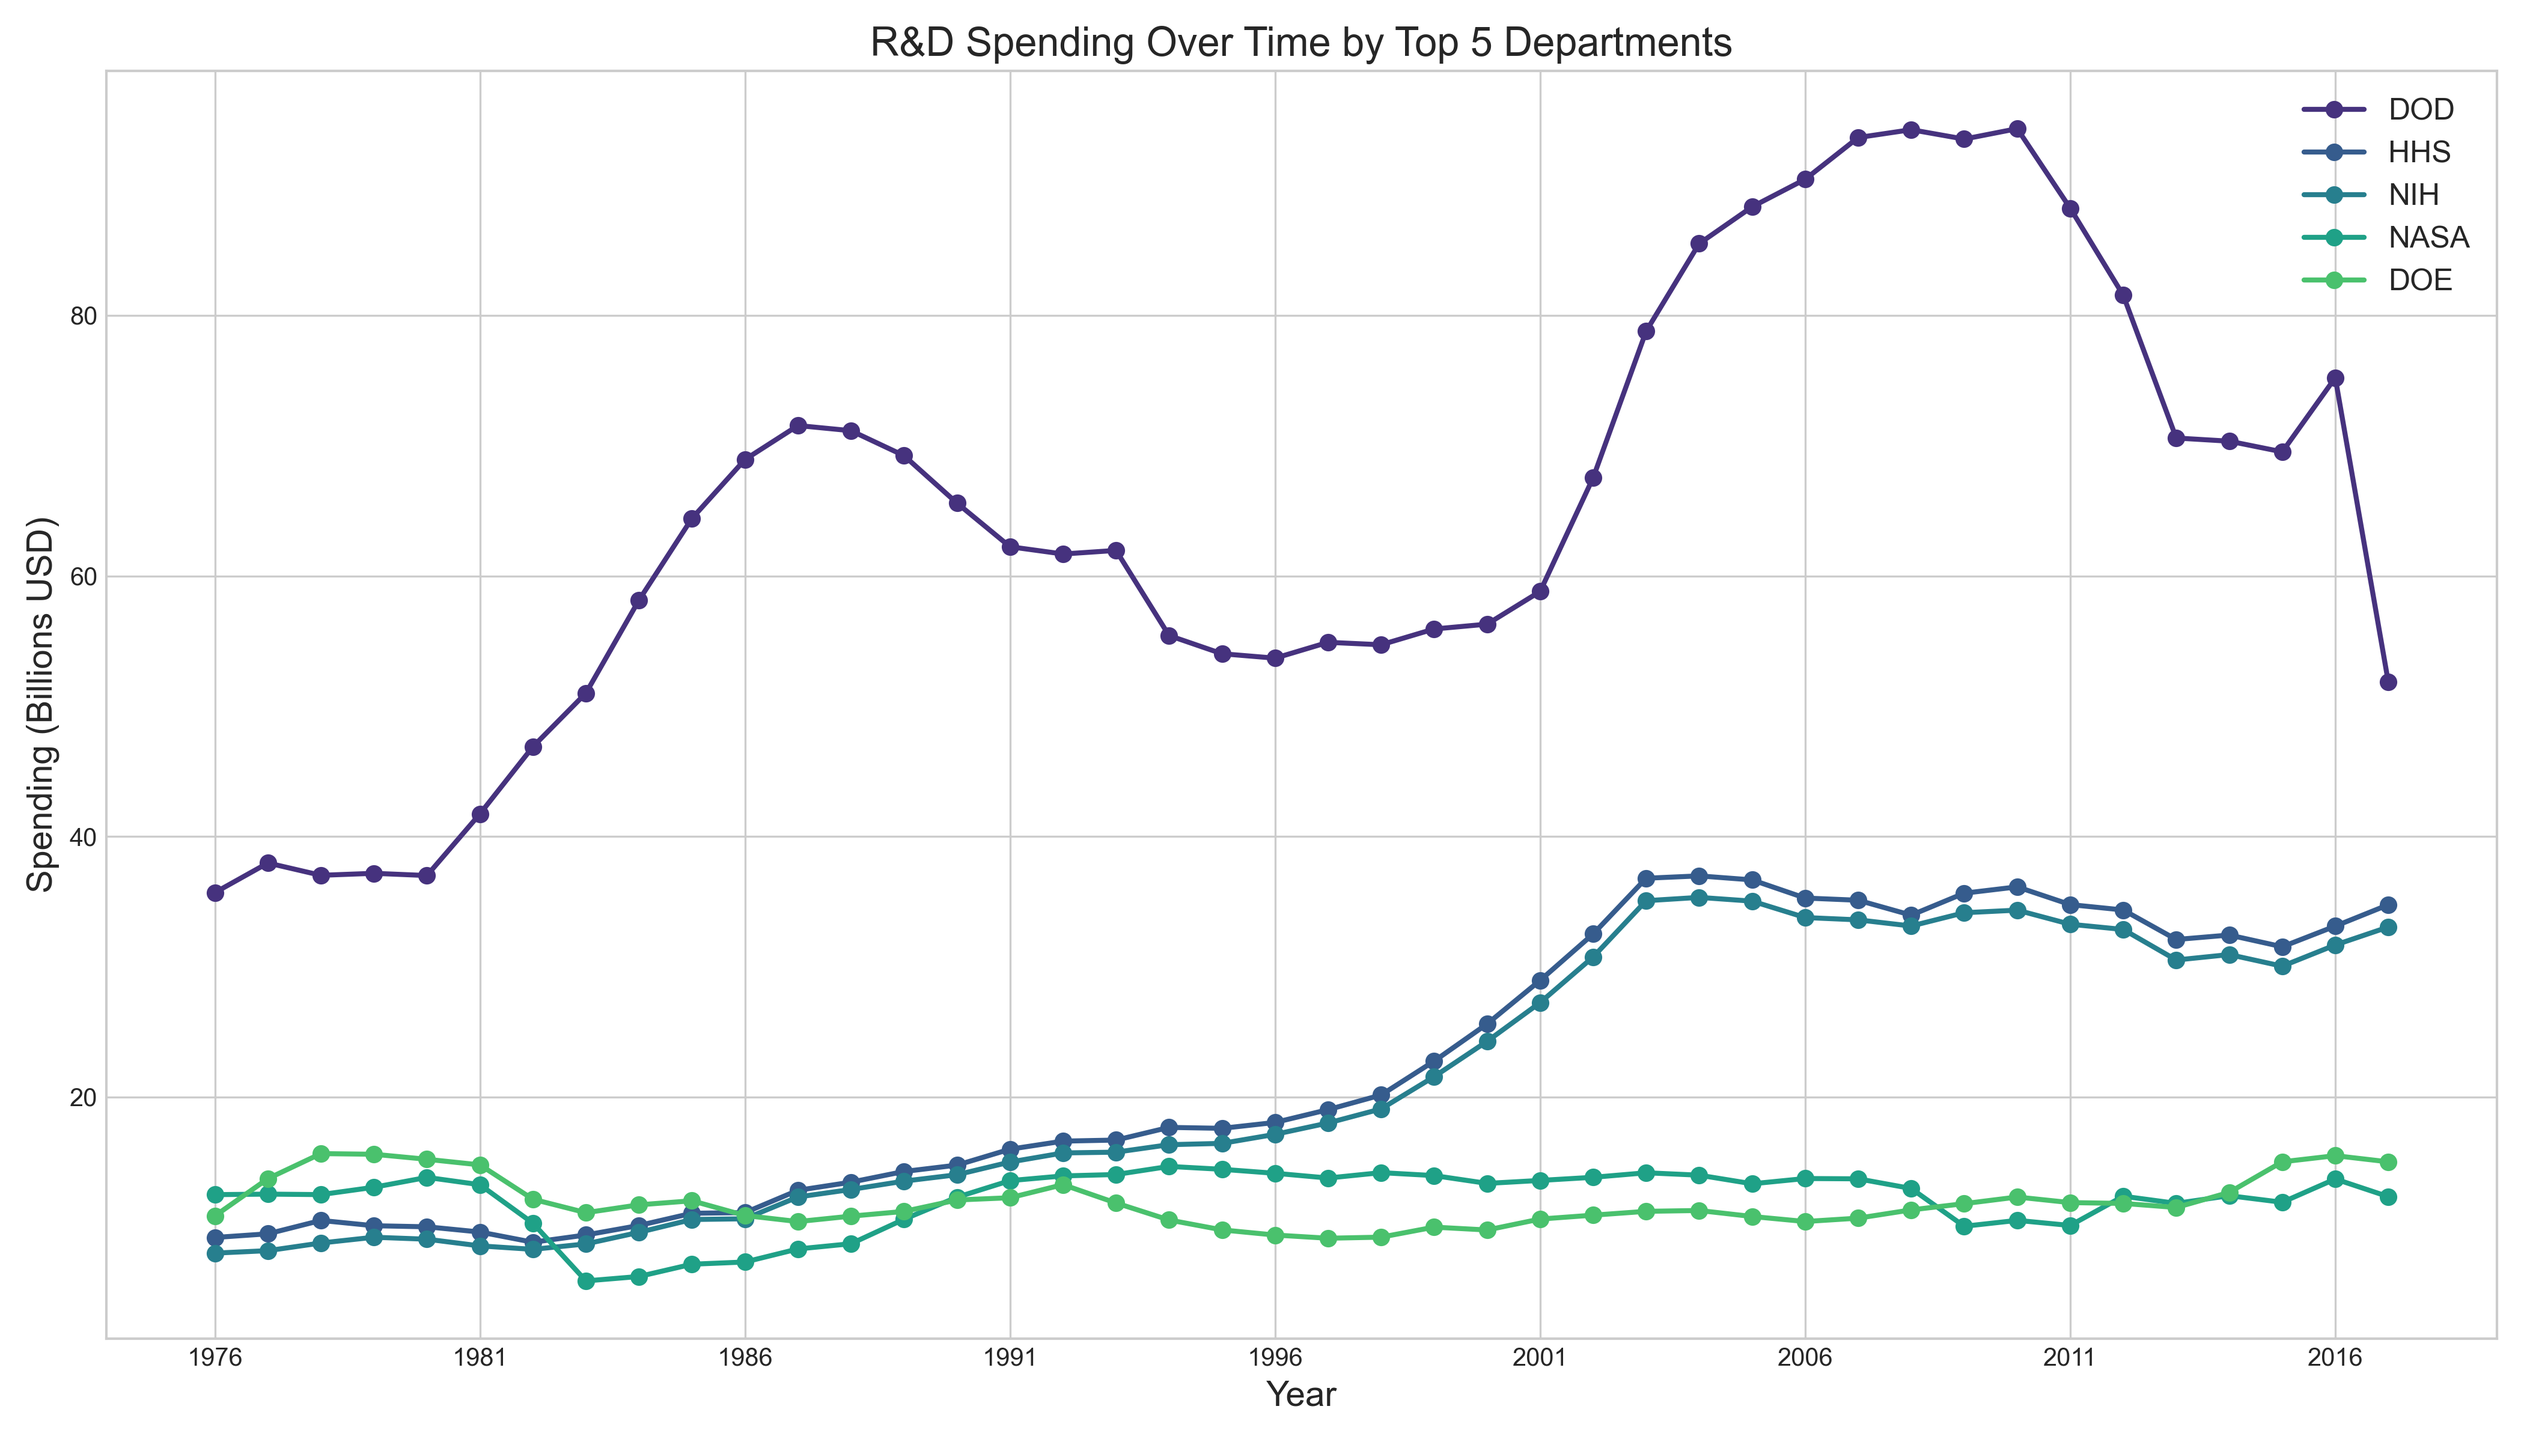
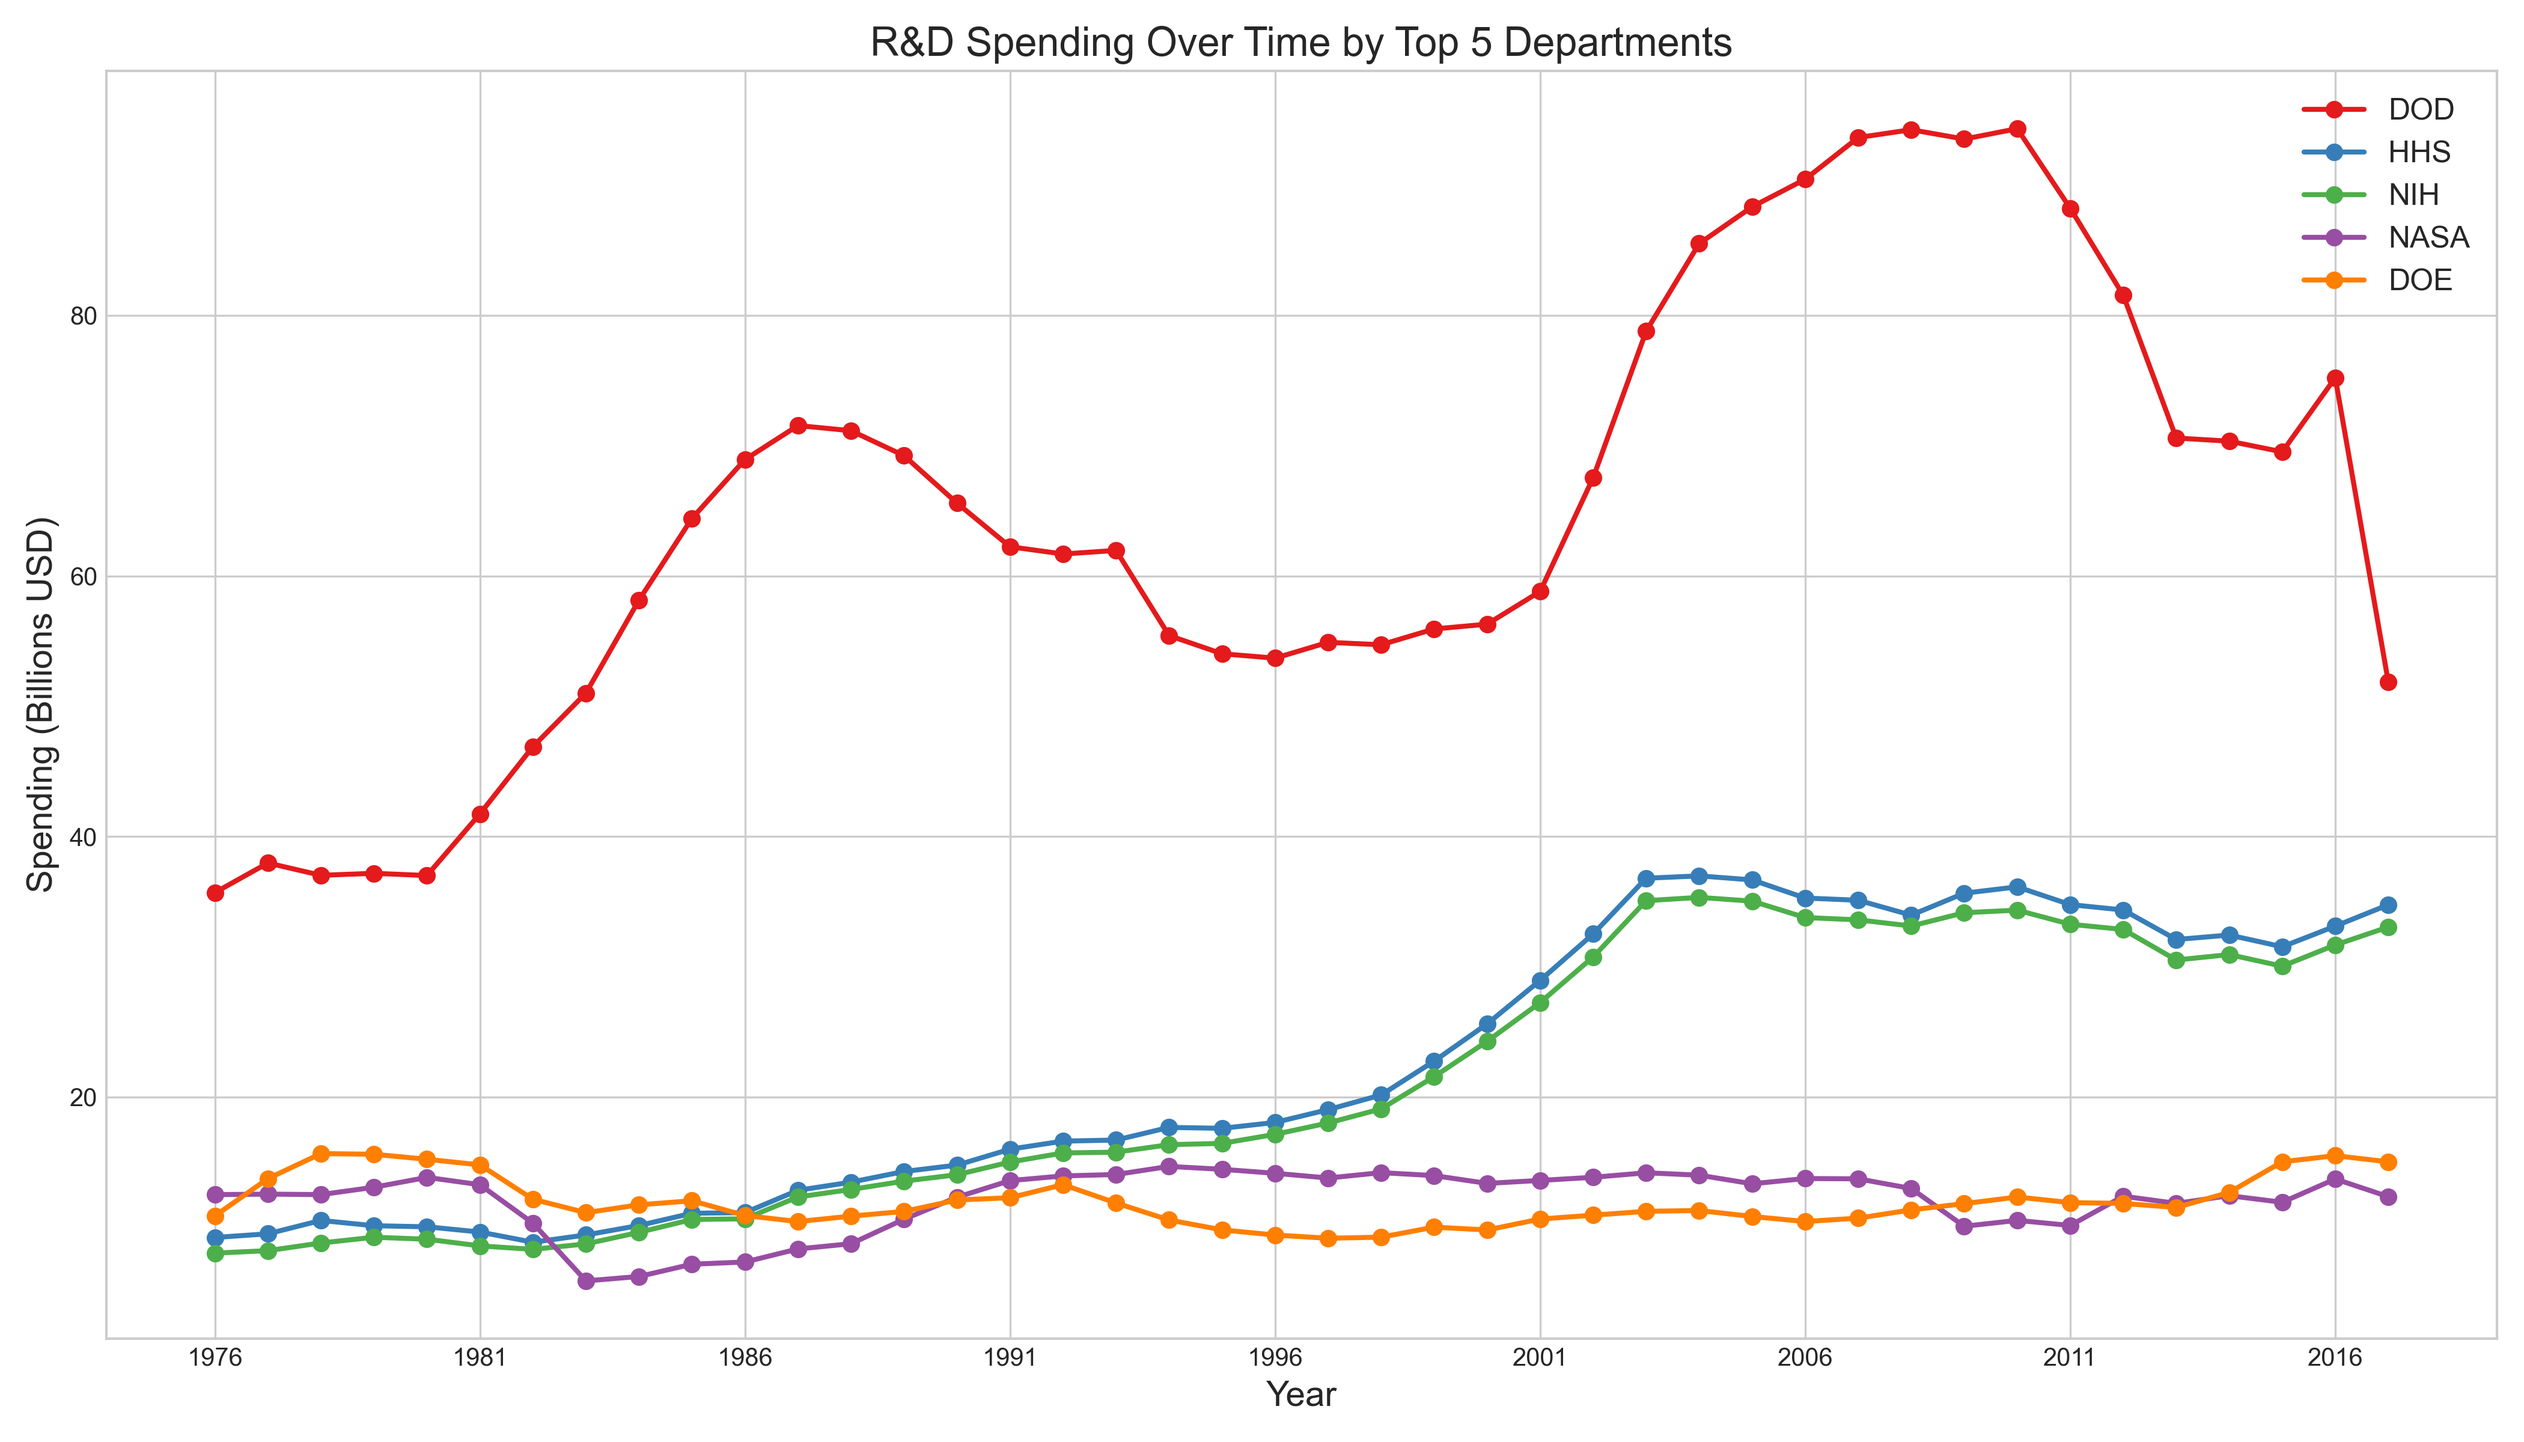
Fix in Readme and graphs
ReadMe now displays the images

Graph of spending accross agencies have different colors so now they are not so confusing

diff --git a/TidyData_Project/tidy-data-project.py b/TidyData_Project/tidy-data-project.py
@@ -6,25 +6,26 @@ import matplotlib.pyplot as plt
 import seaborn as sns
 import os
 
-# Set plot style
+# Setting plot style
 plt.style.use('seaborn-v0_8-whitegrid')
 sns.set_palette("viridis")
 
-# 1. Data Loading
-# ---------------
+# 1. loading the data
+# ---------------------
 try:
-    # Get the current script's directory
+    # Getting the current script's directory
     script_dir = os.path.dirname(os.path.abspath(__file__))
     
     # Construct absolute path to the data file
     file_path = os.path.join(script_dir, 'fed_rd_year&gdp.csv')
     
-    # Add this temporarily for debugging
+    # I'm adding this temporarily for debugging purposes
     print(f"Script directory: {os.path.dirname(os.path.abspath(__file__))}")
     print(f"Looking for file at: {file_path}")
     print(f"File exists: {os.path.exists(file_path)}")
     
-    # Verify file exists before attempting to read
+    # Verifying file exists before attempting to read 
+    #this is optional, I'm just adding it in case I need it for another project too
     if not os.path.exists(file_path):
         raise FileNotFoundError(f"Data file not found at: {file_path}")
     
@@ -48,7 +49,7 @@ except Exception as e:
     exit(1)
 
 # 2. Data Cleaning and Transformation to Tidy Format
-# -------------------------------------------------
+# --------------------------------------------
 
 # Step 1: Melt the dataframe to convert from wide to long format
 # This transforms columns (years) into rows
@@ -80,13 +81,13 @@ tidy_df = melted_df.drop(['year_gdp', 'gdp_info'], axis=1)
 # Calculate spending as percentage of GDP
 tidy_df['spending_pct_gdp'] = (tidy_df['spending'] / tidy_df['gdp']) * 100
 
-# Reorder columns for clarity
+# Reordering columns for clarity
 tidy_df = tidy_df[['department', 'year', 'gdp', 'spending', 'spending_pct_gdp']]
 
 print("Final tidy dataset:")
 print(tidy_df.head())
 
-# Save the tidy dataset
+# And then saving tidy dataset
 tidy_df.to_csv(os.path.join('TidyData_Project', 'tidy_federal_rd_data.csv'), index=False)
 
 # 3. Visualizations
@@ -98,12 +99,19 @@ print("\n--- Creating Visualization 1: Spending Over Time by Top Departments ---
 # Identify top 5 departments by total spending
 top_depts = tidy_df.groupby('department')['spending'].sum().nlargest(5).index
 
+# Define a distinct color palette
+distinct_colors = ['#e41a1c', '#377eb8', '#4daf4a', '#984ea3', '#ff7f00']
+
 plt.figure(figsize=(14, 8))
 
-# Plot data for each top department
-for dept in top_depts:
+# Plot data for each top department with distinct colors
+for dept, color in zip(top_depts, distinct_colors):
     dept_data = tidy_df[tidy_df['department'] == dept]
-    plt.plot(dept_data['year'], dept_data['spending'] / 1e9, marker='o', linewidth=2, label=dept)
+    plt.plot(dept_data['year'], dept_data['spending'] / 1e9, 
+             marker='o', 
+             linewidth=2, 
+             label=dept,
+             color=color)
 
 # Add labels and legend
 plt.title('R&D Spending Over Time by Top 5 Departments', fontsize=16)
@@ -119,7 +127,7 @@ plt.show()
 # Visualization 2: Total R&D Spending as Percentage of GDP Over Time
 print("\n--- Creating Visualization 2: R&D Spending as % of GDP ---")
 
-# Calculate total spending as percentage of GDP for each year
+# Calculating total spending as percentage of GDP for each year
 annual_data = tidy_df.groupby('year').agg({
     'spending': 'sum',
     'gdp': 'first'  # GDP is the same for all departments in a given year
@@ -140,13 +148,13 @@ plt.savefig(os.path.join('TidyData_Project', 'spending_percent_gdp.png'), dpi=30
 plt.show()
 
 # 4. Pivot Table Analysis
-# ----------------------
+# --------------------------
 print("\n--- Creating Pivot Table: Average Spending by Department and Decade ---")
 
 # Create a decade column
 tidy_df['decade'] = (tidy_df['year'] // 10) * 10
 
-# Create pivot table with average spending by department and decade
+# Creating pivot table with average spending by department and decade
 pivot_table = pd.pivot_table(
     tidy_df,
     values='spending',
@@ -162,7 +170,7 @@ print("Average R&D Spending by Department and Decade (in Millions USD):")
 print(pivot_table_millions)
 
 # 5. Additional Analysis: Department Spending Growth Rates
-# -------------------------------------------------------
+# -----------------------------------------------
 print("\n--- Department Spending Growth Analysis ---")
 
 # Calculate the compound annual growth rate (CAGR) for each department
@@ -172,14 +180,14 @@ growth_df = tidy_df.groupby(['department', 'year'])['spending'].sum().reset_inde
 # Create a pivot table with years as columns and departments as rows
 growth_pivot = growth_df.pivot(index='department', columns='year', values='spending')
 
-# Calculate overall growth rate (from first to last available year)
+# Calculating overall growth rate (from first to last available year)
 first_year = growth_pivot.columns.min()
 last_year = growth_pivot.columns.max()
 years_diff = last_year - first_year
 
 growth_pivot['growth_rate'] = ((growth_pivot[last_year] / growth_pivot[first_year]) ** (1 / years_diff) - 1) * 100
 
-# Sort by growth rate
+# And finally sort by growth rate
 top_growth = growth_pivot['growth_rate'].sort_values(ascending=False)
 
 print("Top departments by spending growth rate (1976-2017):")
